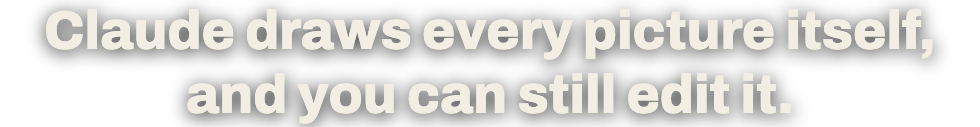
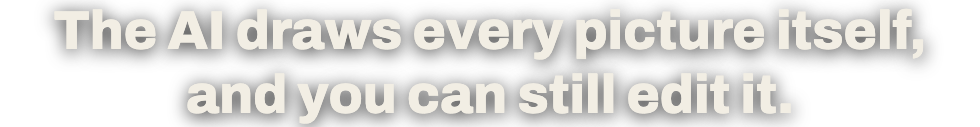
Short 17 says "an AI", not Claude; zone boxes show only while their target is on screen
- Voice, subtitles (EN/KO/JA) and upload text speak of an AI app in general.
- New per-beat lag/appear/until in specs: the DRAWN box shows only on the Sun slide, the ANY CHAT
  box only while the right-click menu is open, and the recap freezes on the open menu instead of
  pointing at an empty spot to the end.

Changed region(s): [[0.0306, 0.0709, 0.9796, 0.4961]]

diff --git a/video/shorts/s17-one-sentence-five-slides/cfg.js b/video/shorts/s17-one-sentence-five-slides/cfg.js
@@ -1,16 +1,16 @@
 var CFG = {
  "id": "s17-one-sentence-five-slides",
  "ep": 15,
- "DUR": 31.18,
- "H": 4.59,
- "Rt": 21.94,
- "END0": 26.78,
+ "DUR": 32.11,
+ "H": 4.84,
+ "Rt": 22.87,
+ "END0": 27.71,
  "beats": [
   {
    "rec": "/Users/kj1212/projects/LayerCue-insta/video/ep15/rec/v2/s5.mp4",
    "src": 18.69,
-   "t": 4.64,
-   "d": 3.99,
+   "t": 4.89,
+   "d": 4.33,
    "audio": null,
    "zx": 882.2,
    "zy": 703.0,
@@ -23,12 +23,14 @@ var CFG = {
     "A new chat",
     "plain words"
    ],
-   "line": "Open a new chat, and ask in plain words. Here: a five-slide talk for a school science night, with every picture drawn by Claude."
+   "line": "Open a new chat, and ask in plain words. Here: a five-slide talk for a school science night, with every picture drawn by Claude.",
+   "zend": null,
+   "zbeg": null
   },
   {
    "rec": "/Users/kj1212/projects/LayerCue-insta/video/ep15/rec/v2/s5.mp4",
    "src": 32.9,
-   "t": 8.62,
+   "t": 9.22,
    "d": 3.88,
    "audio": null,
    "zx": 1488.0,
@@ -42,13 +44,15 @@ var CFG = {
     "Our Solar System",
     "in a new library, Science Night"
    ],
-   "line": "Claude worked for about five minutes. We cut the wait. Then it answers, and the new talk is already in LayerCue."
+   "line": "Claude worked for about five minutes. We cut the wait. Then it answers, and the new talk is already in LayerCue.",
+   "zend": null,
+   "zbeg": null
   },
   {
    "rec": "/Users/kj1212/projects/LayerCue-insta/video/ep15/rec/v2/s5.mp4",
-   "src": 39.23,
-   "t": 12.5,
-   "d": 4.27,
+   "src": 39.83,
+   "t": 13.1,
+   "d": 4.61,
    "audio": null,
    "zx": 2749.5,
    "zy": 1159.5,
@@ -61,12 +65,14 @@ var CFG = {
     "Vector art",
     "drawn by Claude"
    ],
-   "line": "Every picture is vector art that Claude drew itself, so you can still move or recolor any part."
+   "line": "Every picture is vector art that Claude drew itself, so you can still move or recolor any part.",
+   "zend": 15.87,
+   "zbeg": 14.07
   },
   {
    "rec": "/Users/kj1212/projects/LayerCue-insta/video/ep15/rec/v2/s6.mp4",
-   "src": 4.45,
-   "t": 16.77,
+   "src": 5.2,
+   "t": 17.71,
    "d": 5.17,
    "audio": null,
    "zx": 2108.5,
@@ -80,7 +86,9 @@ var CFG = {
     "Copy as HTML for AI",
     ""
    ],
-   "line": "No connection? Pick the text slides, right-click, and choose Copy as HTML for AI."
+   "line": "No connection? Pick the text slides, right-click, and choose Copy as HTML for AI.",
+   "zend": 21.81,
+   "zbeg": 18.46
   }
  ],
  "vo": [
@@ -90,53 +98,53 @@ var CFG = {
   },
   {
    "file": "/Users/kj1212/projects/LayerCue-insta/video/shorts/s17-one-sentence-five-slides/audio/01.wav",
-   "t": 4.79
+   "t": 5.04
   },
   {
    "file": "/Users/kj1212/projects/LayerCue-insta/video/shorts/s17-one-sentence-five-slides/audio/02.wav",
-   "t": 8.77
+   "t": 9.37
   },
   {
    "file": "/Users/kj1212/projects/LayerCue-insta/video/shorts/s17-one-sentence-five-slides/audio/03.wav",
-   "t": 12.65
+   "t": 13.25
   },
   {
    "file": "/Users/kj1212/projects/LayerCue-insta/video/shorts/s17-one-sentence-five-slides/audio/04.wav",
-   "t": 16.92
+   "t": 17.86
   },
   {
    "file": "/Users/kj1212/projects/LayerCue-insta/video/shorts/s17-one-sentence-five-slides/audio/05.wav",
-   "t": 22.14
+   "t": 23.07
   },
   {
    "file": "/Users/kj1212/projects/LayerCue-insta/video/shorts/s17-one-sentence-five-slides/audio/06.wav",
-   "t": 24.43
+   "t": 25.36
   }
  ],
  "subs": [
   [
    0.35,
-   4.49
+   4.74
   ],
   [
-   4.74,
-   8.53
+   4.99,
+   9.12
   ],
   [
-   8.72,
-   12.4
+   9.32,
+   13.0
   ],
   [
-   12.6,
-   16.67
+   13.2,
+   17.61
   ],
   [
-   16.87,
-   21.84
+   17.81,
+   22.78
   ],
   [
-   24.33,
-   26.78
+   25.259999999999998,
+   27.71
   ]
  ],
  "endframes": "/Users/kj1212/projects/LayerCue-insta/video/frames/end-s17-one-sentence-five-slides/00000.png",

diff --git a/video/shorts/s17-one-sentence-five-slides/parts.html b/video/shorts/s17-one-sentence-five-slides/parts.html
@@ -16,7 +16,7 @@ body{margin:0;background:transparent;font-family:var(--disp)}
 .tag{width:1000px;text-align:center;font:500 28px var(--mono);letter-spacing:.12em;color:var(--fg2);white-space:nowrap}
 .tag b{color:var(--cream);font-weight:500}
 </style></head><body>
-<div class="p hook" id="hook"><div class="k">[ LAYERCUE ]</div><div class="a">ONE SENTENCE.</div><div class="b">FIVE SLIDES.</div></div><div class="p word" id="w1"><div class="w">ASK</div><div class="s">in plain <b>words</b></div></div><div class="p word" id="w2"><div class="w">BUILT</div><div class="s">right in <b>LayerCue</b></div></div><div class="p word" id="w3"><div class="w">DRAWN</div><div class="s">every picture, <b>vector</b></div></div><div class="p word" id="w4"><div class="w">ANY CHAT</div><div class="s">copy as <b>HTML</b></div></div><div class="p recap" id="recap"><div class="">ASK.</div><div class="h">BUILT.</div><div class="">DRAWN.</div><div class="h">ANY CHAT.</div></div><div class="p tag" id="tag">FULL TUTORIAL · <b>LAYERCUE FROM ZERO · EP 15</b></div><div class="p sub" id="s1">Ask Claude in one sentence, and get a five-slide talk in LayerCue.</div><div class="p sub" id="s2">Open a new chat in Claude,<br>and ask in plain words.</div><div class="p sub" id="s3">Minutes later, the whole<br>talk is already in LayerCue.</div><div class="p sub" id="s4">Claude draws every picture itself, and you can still edit it.</div><div class="p sub" id="s5">No connection? Copy as HTML,<br>and any AI chat can help.</div><div class="p sub" id="s6">Episode fifteen<br>walks you through it.</div>
+<div class="p hook" id="hook"><div class="k">[ LAYERCUE ]</div><div class="a">ONE SENTENCE.</div><div class="b">FIVE SLIDES.</div></div><div class="p word" id="w1"><div class="w">ASK</div><div class="s">in plain <b>words</b></div></div><div class="p word" id="w2"><div class="w">BUILT</div><div class="s">right in <b>LayerCue</b></div></div><div class="p word" id="w3"><div class="w">DRAWN</div><div class="s">every picture, <b>vector</b></div></div><div class="p word" id="w4"><div class="w">ANY CHAT</div><div class="s">copy as <b>HTML</b></div></div><div class="p recap" id="recap"><div class="">ASK.</div><div class="h">BUILT.</div><div class="">DRAWN.</div><div class="h">ANY CHAT.</div></div><div class="p tag" id="tag">FULL TUTORIAL · <b>LAYERCUE FROM ZERO · EP 15</b></div><div class="p sub" id="s1">Ask an AI in one sentence, and get a five-slide talk in LayerCue.</div><div class="p sub" id="s2">Open a new chat in your AI app,<br>and ask in plain words.</div><div class="p sub" id="s3">Minutes later, the whole<br>talk is already in LayerCue.</div><div class="p sub" id="s4">The AI draws every picture itself, and you can still edit it.</div><div class="p sub" id="s5">No connection? Copy as HTML,<br>and any AI chat can help.</div><div class="p sub" id="s6">Episode fifteen<br>walks you through it.</div>
 <script>
 // 넘치는 줄은 1000 px 안에 들어가게 글자를 줄인다
 // 숨긴 판은 글꼴을 불러오지 않는다 — 재기 전에 직접 불러 둔다(안 그러면 대체 글꼴 폭으로 재서 잘렸다)

diff --git a/video/shorts/build_short.jsx b/video/shorts/build_short.jsx
@@ -87,6 +87,12 @@ var op = T(ob[0]).property("ADBE Position"), os = ob[1].property("ADBE Vector Re
 // 테는 박자 경계에서 컷(창 장면이 바뀌는 순간과 같이) — 미리 미끄러지면 앞 장면 위에서 엇나가 보였다(사용자, short16)
 for (var m = 0; m < 4; m++) { var zz = C.beats[m]; op.setValueAtTime(zz.t, mm(zz.ox, zz.oy)); os.setValueAtTime(zz.t, [zz.ow * K, zz.oh * K]); }
 holdAll(op); holdAll(os); fadeIn(ob[0], B0 + 0.1, .3);
+if (C.beats[3].zend && C.beats[3].zend < RT + 0.2) ob[0].outPoint = C.beats[3].zend;     // 15편: 메뉴가 닫히면 테도 뗀다(사용자, short17)
+var oo = T(ob[0]).property("ADBE Opacity");      // appear/until: 가리킨 것이 화면에 있는 동안만 테를 단다(15편 메뉴 · 슬라이드)
+for (var zq = 1; zq < 4; zq++) { var zb2 = C.beats[zq], ph = C.beats[zq - 1].zend && zq - 1 < 3;
+    if (zb2.zbeg) { if (!ph) oo.setValueAtTime(zb2.t - 0.01, 100); oo.setValueAtTime(zb2.t, 0); oo.setValueAtTime(zb2.zbeg, 0); oo.setValueAtTime(zb2.zbeg + 0.08, 100); }
+    else if (ph) { oo.setValueAtTime(zb2.t - 0.01, 0); oo.setValueAtTime(zb2.t, 100); }
+    if (zb2.zend && zq < 3) { oo.setValueAtTime(zb2.zend, 100); oo.setValueAtTime(zb2.zend + 0.08, 0); } }
 for (var r = 0; r < 4; r++) { var zr = C.beats[r], te = (r === 3) ? END0 + 0.1 : recapT(r + 1), rq = rectLayer(comp, "recap zone " + r, zr.ow * K, zr.oh * K, HOT, 5, recapT(r), te);
     T(rq[0]).property("ADBE Position").setValue(mm(zr.ox, zr.oy)); fadeIn(rq[0], recapT(r), .1); if (r === 3) fadeOut(rq[0], END0 + 0.1, .3); }
 

diff --git a/video/shorts/i18n.py b/video/shorts/i18n.py
@@ -13,7 +13,7 @@ KO = {
  "12": ["소리가 안 나요? 1분 안에 찾아요.", "긴 미터가 나가는 소리를 보여 줘요.", "MUTE를 켜도 미터는 계속 움직여요.", "목록대로: MUTE, 마스터, 미터.", "여기선 슬라이드 볼륨이 0이었어요.", "미터. MUTE. 점검. 슬라이드.", "12편에서 하나씩 알려 드려요."],
  "13": ["무대에 유튜브 영상을 띄워요.", "주소를 붙여 넣으면 슬라이드가 돼요.", "유튜브 버튼 없이 깔끔하게 스트리밍돼요.", "자막을 바꾸면 무대가 바로 바뀌어요.", "다운로드하면 인터넷 없이 재생돼요.", "링크. 스트리밍. 자막. 다운로드.", "13편에서 하나씩 알려 드려요."],
  "14": ["연사의 덱을 1분 만에 쇼 안으로.", "PowerPoint를 뒤따를 카드 위에 놓아요.", "진짜 글로 들어와요. 어느 칸이든 고쳐요.", "PDF는 쪽마다 그림으로 들어와요.", "그리고 어떤 목록이든 PDF로 다시 내보내요.", "넣기. 고치기. PDF. 내보내기.", "14편에서 하나씩 알려 드려요."],
- "15": ["Claude에 한 문장이면, LayerCue에 다섯 장 발표가 생겨요.", "Claude에서 새 대화를 열고, 평범한 말로 부탁하세요.", "몇 분 뒤, 발표가 벌써 LayerCue에 들어와 있어요.", "그림도 Claude가 직접 그리고, 그대로 고칠 수 있어요.", "연결이 없나요? HTML로 복사하면 어떤 AI 채팅이든 도와줘요.", "부탁. 완성. 그림. 어떤 채팅이든.", "15편에서 하나씩 알려 드려요."],
+ "15": ["AI에게 한 문장이면, LayerCue에 다섯 장 발표가 생겨요.", "AI 앱에서 새 대화를 열고, 평범한 말로 부탁하세요.", "몇 분 뒤, 발표가 벌써 LayerCue에 들어와 있어요.", "그림도 AI가 직접 그리고, 그대로 고칠 수 있어요.", "연결이 없나요? HTML로 복사하면 어떤 AI 채팅이든 도와줘요.", "부탁. 완성. 그림. 어떤 채팅이든.", "15편에서 하나씩 알려 드려요."],
 }
 JA = {
  "02": ["LayerCue はインストールして1分で準備完了。", "最初からステップごとのガイドが入っています。", "歯車ひとつで、すべての設定が開きます。", "言語を変えると、メニューがすぐ変わります。", "終了しても安心。作業はもう保存されています。", "ガイド。設定。言語。保存。", "第2回で順に案内します。"],
@@ -29,5 +29,5 @@ JA = {
  "12": ["音が出ない？1分以内に見つけます。", "縦長のメーターが、出ていく音を示します。", "MUTE でも、メーターは動き続けます。", "順に確認：MUTE、マスター、メーター。", "ここではスライド自身の音量が0でした。", "メーター。MUTE。確認。スライド。", "第12回で順に案内します。"],
  "13": ["YouTube の映像をステージに。", "アドレスを貼り付ければスライドに。", "YouTube のボタンなしで、きれいにストリーミング。", "字幕を変えると、ステージがすぐ変わります。", "ダウンロードすれば、インターネットなしで再生。", "リンク。ストリーミング。字幕。ダウンロード。", "第13回で順に案内します。"],
  "14": ["登壇者のデッキを、1分でショーの中へ。", "PowerPoint を、後に続けたいカードの上に。", "本物のテキストで入るので、どのセルも編集可能。", "PDF はページごとに画像で入ります。", "そしてどのリストも PDF で書き出せます。", "取り込み。編集。PDF。書き出し。", "第14回で順に案内します。"],
- "15": ["Claude に一文頼めば、LayerCue に5枚の発表ができます。", "Claude で新しいチャットを開き、普段の言葉で頼みます。", "数分後、発表はもう LayerCue に入っています。", "絵も Claude が自分で描き、そのまま編集できます。", "接続がない?HTML でコピーすれば、どの AI チャットでも手伝えます。", "頼む。完成。描く。どのチャットでも。", "第15回で順に案内します。"],
+ "15": ["AI に一文頼めば、LayerCue に5枚の発表ができます。", "AI アプリで新しいチャットを開き、普段の言葉で頼みます。", "数分後、発表はもう LayerCue に入っています。", "絵も AI が自分で描き、そのまま編集できます。", "接続がない?HTML でコピーすれば、どの AI チャットでも手伝えます。", "頼む。完成。描く。どのチャットでも。", "第15回で順に案内します。"],
 }

diff --git a/video/shorts/make.py b/video/shorts/make.py
@@ -108,14 +108,16 @@ def make(sp, idx):
     bl = []
     for i, b in enumerate(sp["beats"]):
         c = cand[b["b"]]; rp = V / c["rec"]; rd = rec_dur(rp)
-        lead = 1.4; src = c["v"] - lead
+        lead = 1.4; src = c["v"] + b.get("lag", 0.0) - lead          # lag: 녹화에서 실제로 늦게 일어난 만큼(15편 메뉴 0.75 s)
         if i == 0: src = max(src, min(S[0], c["v"] - 0.6))      # 훅 동안 앞부분을 보여 줄 수 있게
         src = max(0.0, min(src, rd - Dd[i] - 0.2))
         z = zone(c["region"]); wav = rp.with_suffix(".wav"); aj = rp.with_suffix(".audio.json")
         aud = None
         if sp.get("app_audio") is not None and wav.exists() and aj.exists():
             aud = dict(file=str(wav), shift=round(SL["rec_t0"] + json.load(open(aj))["offset"], 3), db=sp["app_audio"])
-        bl.append(dict(rec=str(rp), src=round(src, 3), t=S[i], d=Dd[i], audio=aud, **z, lbl=c["lbl"], line=c["line"]))
+        zend = round(S[i] + b["until"] - src, 2) if "until" in b else None    # until: 가리킨 것이 녹화에서 사라지는 시각 — 그때 테도 뗀다
+        zbeg = round(S[i] + b["appear"] - src, 2) if "appear" in b else None    # appear: 가리킨 것이 녹화에 나타나는 시각 — 그때 테를 단다
+        bl.append(dict(rec=str(rp), src=round(src, 3), t=S[i], d=Dd[i], audio=aud, **z, lbl=b.get("lbl", c["lbl"]), line=c["line"], zend=zend, zbeg=zbeg))
     cfg = dict(id=sid, ep=ep, DUR=DUR, H=round(Hk, 2), Rt=Rt, END0=END0, beats=bl,
                vo=[dict(file=str(D / "audio" / f"{i:02d}.wav"), t=vo_at[i]) for i in range(len(lines))],
                subs=[[0.35, round(Hk - 0.1, 2)]] + [[round(S[i] + 0.1, 2), round(S[i] + Dd[i] - 0.1, 2)] for i in range(4)] + [[vo_at[6] - 0.1, END0]],

diff --git a/video/shorts/specs.py b/video/shorts/specs.py
@@ -83,9 +83,9 @@ S = [
              dict(b=12, w="PDF", s="as <b>pictures</b>", vo="A PDF comes in as pictures, page by page."),
              dict(b=13, w="EXPORT", s="text stays <b>text</b>", vo="And any list goes back out as a PDF.")]),
 dict(ep="15", slug="one-sentence-five-slides", title="One Sentence, Five Slides", hook=["ONE SENTENCE.", "FIVE SLIDES."],
-      hook_vo="Ask Claude in one sentence, and get a five-slide talk in LayerCue.", tags="ASK.,DRAW.,PRESENT.",
-      beats=[dict(b=10, w="ASK", s="in plain <b>words</b>", vo="Open a new chat in Claude, and ask in plain words."),
+      hook_vo="Ask an AI in one sentence, and get a five-slide talk in LayerCue.", tags="ASK.,DRAW.,PRESENT.",
+      beats=[dict(b=10, w="ASK", s="in plain <b>words</b>", vo="Open a new chat in your AI app, and ask in plain words."),
              dict(b=12, w="BUILT", s="right in <b>LayerCue</b>", vo="Minutes later, the whole talk is already in LayerCue."),
-             dict(b=13, w="DRAWN", s="every picture, <b>vector</b>", vo="Claude draws every picture itself, and you can still edit it."),
-             dict(b=14, w="ANY CHAT", s="copy as <b>HTML</b>", vo="No connection? Copy as HTML, and any AI chat can help.")]),
+             dict(b=13, w="DRAWN", s="every picture, <b>vector</b>", vo="The AI draws every picture itself, and you can still edit it.", lag=0.6, appear=40.8, until=42.6),
+             dict(b=14, w="ANY CHAT", s="copy as <b>HTML</b>", vo="No connection? Copy as HTML, and any AI chat can help.", lag=0.75, appear=5.95, until=9.3)]),
 ]
